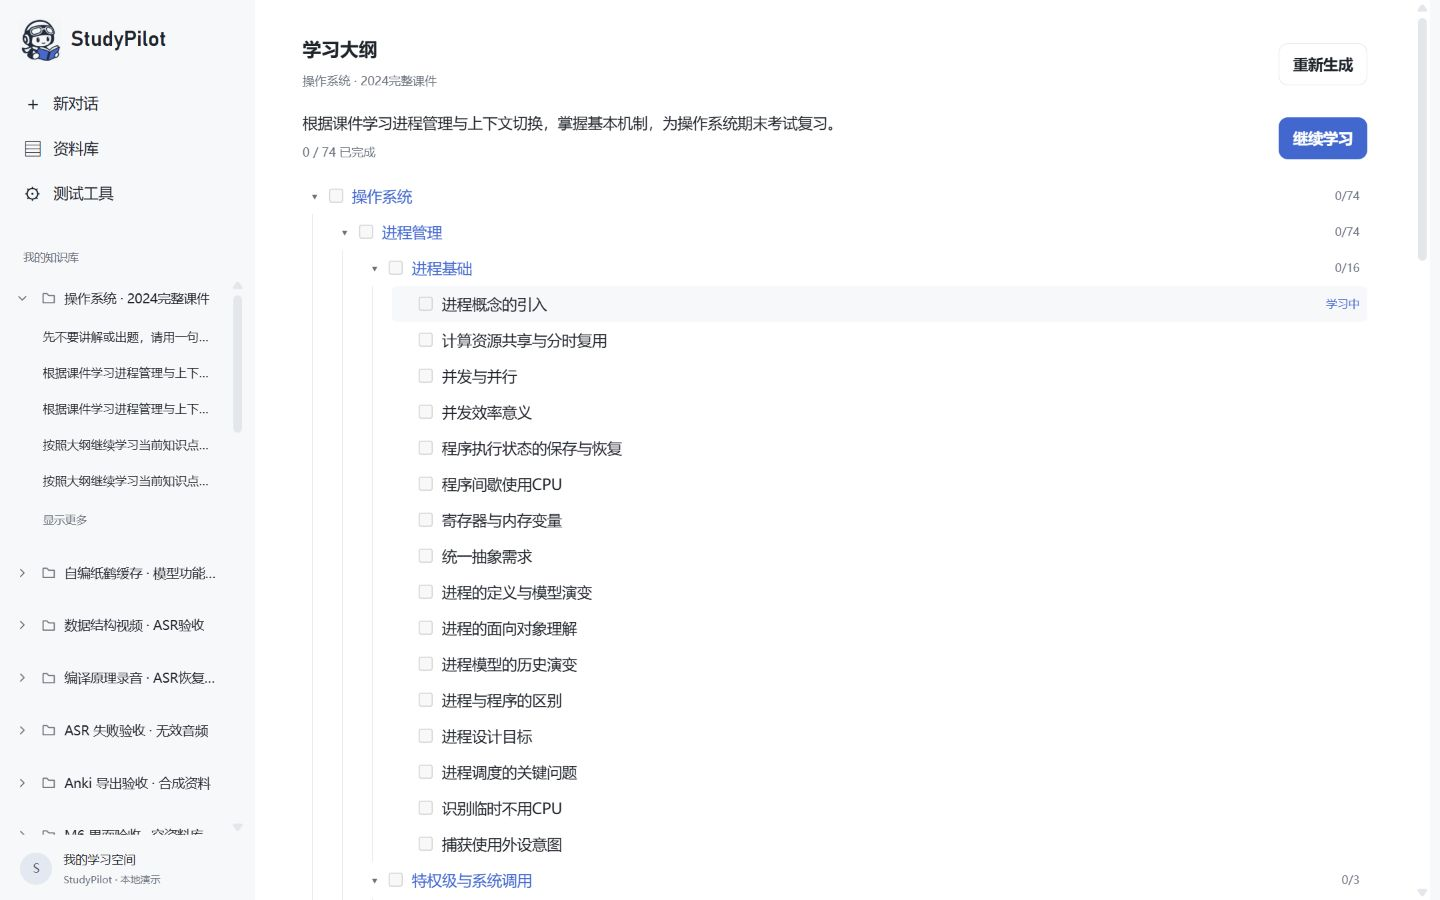
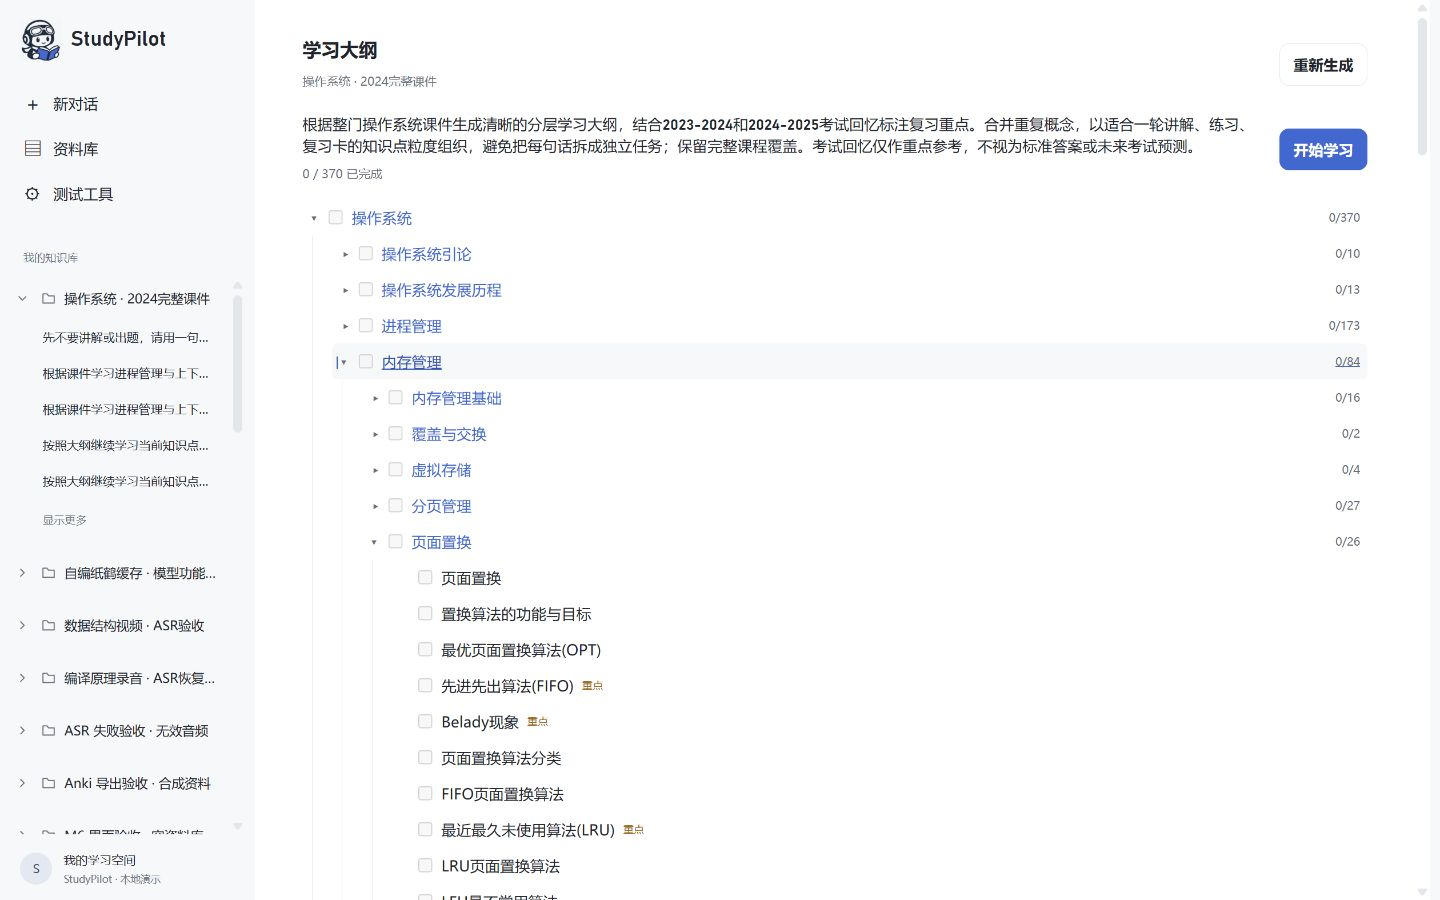
docs: show OS exam emphasis run and current limitations

diff --git a/PROGRESS.md b/PROGRESS.md
@@ -1,5 +1,13 @@
 # StudyAgent 进展
 
+## 2026-09-14 · OS 往年习题重点真实运行
+
+- [x] 用户批准使用 `D:\Download\BDNetdisk_DL\操作系统\往年` 的 `2023-2024.md`、`2024-2025.md`。通过上传 API 加入 OS 库并完成索引，文档 ID 为 `2099421075533242370`、`2099421079513636866`。复用已有 18 份课件的解析产物，未重新向量化课件。
+- [x] 创建并完成规划 `2099421190536863745`：61 批课件提取、整课大纲、2 批习题定位/匹配/复核、8 批任务安排、最终汇总。当前大纲 API 返回 SUCCEEDED；370 个叶子中 HIGH 9、MEDIUM 2、NORMAL 359。重点包括信号量互斥、FIFO、LRU、Belady、TLB、DMA、系统调用及磁盘相关内容。14 条匹配关联去重后为 11 个重点节点，不能作为人工评测准确率。
+- [x] 修复实际规模问题：大纲和匹配关闭推理以保留 JSON 输出预算；先用简洁目录定位考点，再读取对应依据；模型选择摘录编号、服务端回填原文，避免抄写转义字符失败；任务每批 50 个，避免整课任务 JSON 截断。V18 为当前大纲查询增加排序索引，解决 MySQL sort memory 错误。提交 `9c00360`。
+- [x] `PlanningReasoningTest` 与 `PlanningValidationTest` 通过，真实 API 完成、前端重点标签可见；README 补充接口与流程说明，更新真实大纲截图。
+- [ ] 内容质量仍待改善：生成大纲存在 FIFO/LRU、PCB 等同义节点重复；部分未匹配仅代表所选课件摘录不足，不能声称全库未覆盖。当前重点功能跑通，不代表完整考试覆盖或大纲质量已达理想状态。本轮未扩大到重做大纲合并算法。
+
 ## 2026-09-14 · GitHub 展示 README 与 OS 重点排查
 
 - [x] 只读核对当前 OS 大纲 `2098028620875309058`：输入为 1 份「3.1 进程的上下文切换」课件的 5 个来源块，习题来源为 0；未执行 EMPHASIS 阶段，全部 83 个目录/叶子节点均为 NORMAL（74 个叶子）。库中 18 份文件均为课件。前端已有 HIGH/MEDIUM 的重点标签，当前没有标记不是显示故障。
